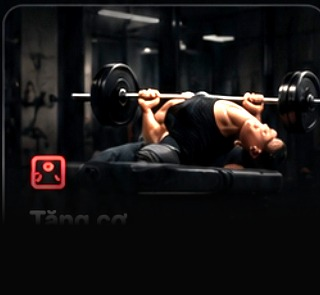
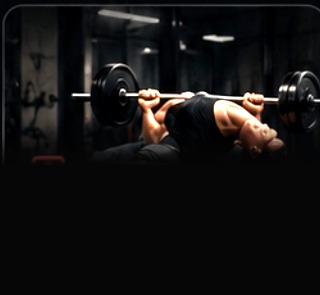
Dich noi dung Fitness sang tieng Anh, xoa het chu Viet in tren anh asset
- 3 anh the giao an: chu Viet in san ("Gym co ban"...) van lo ra duoi chu
  that cua app vi vung xoa bat dau qua muon. Xoa dac tu y=165 (icon o 160,
  chu o 210) thay vi 225.
- Ten bai tap, nhom co, thiet bi, noi tap, muc do, so buoi/tuan gio doi
  theo ngon ngu giao dien. Ten bai tap dung nameEn co san trong file noi
  dung; 17 ten nhom co + 50 loai thiet bi map trong exercise_i18n.dart.
- Bieu do "Tong dau tu" o man Home Quan ly tai san doc CUNG khung thoi
  gian (1H/4H/1D/1W/1M/1Y) voi bieu do o man chi tiet, thay vi bi ghim
  cung 1H - 2 duong cung mot chi so ma ke chuyen khac nhau thi kho hieu.

CON LAI chua dich: 466 dong huong dan tung buoc cua 155 bai tap (truong
`instructions` trong exercises_seed.json) - man chi tiet bai tap van hien
huong dan tieng Viet khi chon tieng Anh.

diff --git a/app/lib/features/fitness/data/exercise_i18n.dart b/app/lib/features/fitness/data/exercise_i18n.dart
@@ -1,0 +1,113 @@
+/// Xem doc ben duoi.
+library;
+
+import '../../../core/i18n/app_language.dart';
+
+/// Dich phan NOI DUNG bai tap sang tieng Anh.
+///
+/// Khac [AppStrings] (chuoi giao dien: nut, tieu de, thong bao), day la du
+/// lieu tinh nam trong `assets/fitness/exercises_seed.json` - von chi co
+/// tieng Viet. Thay vi nhet 155 bai vao tu dien giao dien, o day chi map
+/// nhung gia tri LAP DI LAP LAI: 17 ten nhom co va 50 loai thiet bi. Ten
+/// bai tap khong can map vi file noi dung da co san truong `nameEn`.
+///
+/// CHUA dich: 466 dong huong dan tung buoc (`instructions`) - nguoi dung
+/// chon tieng Anh van thay huong dan tieng Viet o man chi tiet bai tap.
+/// Ten nhom co. Cac gia tri trong file noi dung xuat hien o 2 dang: rieng
+/// le ("Vai truoc") o `secondaryMuscles`, va kem hau to ("Nguc · chinh") o
+/// `primaryMuscle` - [exerciseMuscleLabel] tu tach o dau ' · '.
+const _muscleEn = <String, String>{
+  'Ngực': 'Chest',
+  'Lưng': 'Back',
+  'Lưng trên': 'Upper back',
+  'Lưng giữa': 'Mid back',
+  'Lưng dưới': 'Lower back',
+  'Xô': 'Lats',
+  'Cầu vai': 'Traps',
+  'Vai': 'Shoulders',
+  'Vai trước': 'Front delts',
+  'Vai giữa': 'Side delts',
+  'Vai sau': 'Rear delts',
+  'Tay trước': 'Biceps',
+  'Tay sau': 'Triceps',
+  'Cẳng tay': 'Forearms',
+  'Bụng': 'Abs',
+  'Mông': 'Glutes',
+  'Đùi trước': 'Quads',
+  'Đùi sau': 'Hamstrings',
+  'Bắp chân': 'Calves',
+  'Háng': 'Hip adductors',
+  'Toàn thân': 'Full body',
+  // Hau to cua `primaryMuscle`.
+  'chính': 'primary',
+  'phụ': 'secondary',
+};
+
+const _equipmentEn = <String, String>{
+  'Không thiết bị': 'No equipment',
+  'Tạ đòn': 'Barbell',
+  'Tạ đòn + ghế': 'Barbell + bench',
+  'Tạ đòn + ghế nghiêng': 'Barbell + incline bench',
+  'Tạ đòn + ghế dốc': 'Barbell + decline bench',
+  'Tạ đòn + giá đỡ': 'Barbell + rack',
+  'Tạ đòn + tay cầm chữ T': 'Barbell + T-bar handle',
+  'Tạ đơn': 'Dumbbells',
+  'Tạ đơn + ghế': 'Dumbbells + bench',
+  'Tạ đơn + ghế nghiêng': 'Dumbbells + incline bench',
+  'Tạ đơn + ghế dốc': 'Dumbbells + decline bench',
+  'Tạ ấm': 'Kettlebell',
+  'Tạ cầm tay nặng': 'Heavy carry handles',
+  'Thanh EZ': 'EZ bar',
+  'Thanh EZ + ghế': 'EZ bar + bench',
+  'Thanh đòn cố định': 'Fixed barbell',
+  'Ghế Scott + thanh EZ': 'Preacher bench + EZ bar',
+  'Máy cáp': 'Cable machine',
+  'Máy cáp + dây thừng': 'Cable machine + rope',
+  'Máy cáp + ghế': 'Cable machine + bench',
+  'Máy tập': 'Machine',
+  'Máy đạp đùi': 'Leg press machine',
+  'Máy GHR': 'Glute-ham raise machine',
+  'Máy chạy bộ': 'Treadmill',
+  'Máy elliptical': 'Elliptical',
+  'Máy chèo thuyền': 'Rowing machine',
+  'Máy leo cầu thang': 'Stair climber',
+  'Xe đạp tập': 'Exercise bike',
+  'Xe đạp nằm': 'Recumbent bike',
+  'Dây nhảy': 'Jump rope',
+  'Dây kháng lực': 'Resistance band',
+  'Dây/khăn hỗ trợ': 'Strap or towel',
+  'Gậy hoặc khăn dài': 'Stick or long towel',
+  'Bóng tập': 'Exercise ball',
+  'Bục/ghế': 'Box or bench',
+  'Ghế': 'Bench',
+  'Ghế/bục': 'Bench or box',
+  'Ghế dốc': 'Decline bench',
+  'Ghế ưỡn lưng': 'Back extension bench',
+  'Xà đơn': 'Pull-up bar',
+  'Xà kép': 'Parallel bars',
+  'Khung kéo tạ': 'Trap bar',
+  'Bánh xe tập bụng': 'Ab wheel',
+  'Dụng cụ cuốn cổ tay': 'Wrist roller',
+  'Đĩa tạ': 'Weight plate',
+  'Xe đẩy tạ': 'Sled',
+  'Lốp xe tải': 'Tractor tyre',
+  'Bao cát': 'Sandbag',
+  'Đá tạ': 'Atlas stone',
+  'Giàn yoke': 'Yoke',
+};
+
+/// Nhan nhom co theo ngon ngu giao dien. Gia tri la nhieu phan ngan cach
+/// bang ' · ' (vd "Nguc · chinh") thi dich TUNG PHAN roi ghep lai. Phan nao
+/// chua co trong bang thi giu nguyen tieng Viet - hien sai ngon ngu van hon
+/// la hien o trong.
+String exerciseMuscleLabel(String vi, AppLanguage lang) {
+  if (lang != AppLanguage.en) return vi;
+  return vi
+      .split(' · ')
+      .map((part) => _muscleEn[part.trim()] ?? part)
+      .join(' · ');
+}
+
+/// Nhan thiet bi theo ngon ngu giao dien.
+String exerciseEquipmentLabel(String vi, AppLanguage lang) =>
+    lang == AppLanguage.en ? (_equipmentEn[vi] ?? vi) : vi;

diff --git a/app/lib/features/fitness/presentation/exercise_detail_screen.dart b/app/lib/features/fitness/presentation/exercise_detail_screen.dart
@@ -6,6 +6,7 @@ import '../../../core/providers/app_providers.dart';
 import '../../../core/theme/app_theme.dart';
 import '../data/exercise_model.dart';
 import 'exercise_photo_animator.dart';
+import '../data/exercise_i18n.dart';
 
 /// Chi tiet 1 bai tap - huong dan tung buoc + thanh % tham gia cua tung
 /// nhom co (an neu involvementPercents rong - day la tin hieu CHU DONG
@@ -22,6 +23,7 @@ class ExerciseDetailScreen extends ConsumerWidget {
 
   @override
   Widget build(BuildContext context, WidgetRef ref) {
+    final lang = ref.watch(appLanguageProvider);
     final favoritesAsync = ref.watch(favoriteExerciseIdsProvider);
     final isFavorite =
         favoritesAsync.valueOrNull?.contains(exercise.id) ?? false;
@@ -54,8 +56,11 @@ class ExerciseDetailScreen extends ConsumerWidget {
             const SizedBox(height: 12),
             ExercisePhotoAnimator(assets: exercise.photoAssets),
             const SizedBox(height: 16),
-            Text(exercise.nameVi, style: AppTextStyles.heading(size: 20)),
-            Text(exercise.nameEn, style: AppTextStyles.muted()),
+            Text(
+              exercise.nameFor(lang),
+              style: AppTextStyles.heading(size: 20),
+            ),
+            Text(exercise.altNameFor(lang), style: AppTextStyles.muted()),
             const SizedBox(height: 12),
             Wrap(
               spacing: 8,
@@ -69,7 +74,10 @@ class ExerciseDetailScreen extends ConsumerWidget {
                   label: ref.tr(exercise.muscleGroup.labelKey),
                   color: AppColors.teal,
                 ),
-                _Tag(label: exercise.equipment, color: AppColors.purple),
+                _Tag(
+                  label: exerciseEquipmentLabel(exercise.equipment, lang),
+                  color: AppColors.purple,
+                ),
               ],
             ),
             const SizedBox(height: 20),

diff --git a/app/lib/features/fitness/presentation/programs_list_screen.dart b/app/lib/features/fitness/presentation/programs_list_screen.dart
@@ -147,7 +147,7 @@ class _ProgramsListScreenState extends ConsumerState<ProgramsListScreen> {
   }
 }
 
-class _ProgramCard extends StatelessWidget {
+class _ProgramCard extends ConsumerWidget {
   const _ProgramCard({
     required this.program,
     required this.isActive,
@@ -158,7 +158,7 @@ class _ProgramCard extends StatelessWidget {
   final VoidCallback onTap;
 
   @override
-  Widget build(BuildContext context) {
+  Widget build(BuildContext context, WidgetRef ref) {
     return GestureDetector(
       onTap: onTap,
       child: GlowBox(
@@ -171,7 +171,7 @@ class _ProgramCard extends StatelessWidget {
               children: [
                 Expanded(
                   child: Text(
-                    program.titleVi,
+                    program.titleFor(ref.watch(appLanguageProvider)),
                     style: AppTextStyles.body(weight: FontWeight.w800),
                   ),
                 ),
@@ -203,7 +203,9 @@ class _ProgramCard extends StatelessWidget {
                 _DifficultyBadge(difficulty: program.difficulty),
                 const SizedBox(width: 8),
                 Text(
-                  '${program.equipment} · ${program.sessionsPerWeek} buổi/tuần',
+                  '${program.equipmentLabelKey == null ? program.equipment : ref.tr(program.equipmentLabelKey!)}'
+                  ' · '
+                  '${ref.tr('fitness_sessions_per_week').replaceFirst('{n}', '${program.sessionsPerWeek}')}',
                   style: AppTextStyles.muted(),
                 ),
               ],

diff --git a/app/lib/features/fitness/presentation/program_detail_screen.dart b/app/lib/features/fitness/presentation/program_detail_screen.dart
@@ -68,7 +68,7 @@ class ProgramDetailScreen extends ConsumerWidget {
                 const SizedBox(width: 12),
                 Expanded(
                   child: Text(
-                    program.titleVi,
+                    program.titleFor(ref.watch(appLanguageProvider)),
                     style: AppTextStyles.heading(size: 18),
                     maxLines: 1,
                     overflow: TextOverflow.ellipsis,
@@ -102,7 +102,7 @@ class ProgramDetailScreen extends ConsumerWidget {
               onTap: () => addFitnessProgramToPlanner(
                 ref,
                 programId: program.id,
-                programTitle: program.titleVi,
+                programTitle: program.titleFor(ref.watch(appLanguageProvider)),
                 trainingWeekdays: [
                   for (final d in program.days)
                     if (!d.isRestDay) d.dayOfWeek,
@@ -206,7 +206,9 @@ class _DayCard extends StatelessWidget {
                         Padding(
                           padding: const EdgeInsets.only(bottom: 2),
                           child: Text(
-                            exercisesById[ex.exerciseId]?.nameVi ??
+                            exercisesById[ex.exerciseId]?.nameFor(
+                                  ref.watch(appLanguageProvider),
+                                ) ??
                                 '#${ex.exerciseId}',
                             style: AppTextStyles.muted(),
                           ),

diff --git a/app/lib/features/wealth/presentation/investment_value_chart.dart b/app/lib/features/wealth/presentation/investment_value_chart.dart
@@ -187,13 +187,13 @@ class _InvestmentValueChartState extends ConsumerState<InvestmentValueChart> {
 
   @override
   Widget build(BuildContext context) {
-    // Ban compact o man Home luon xem khung 1H (khong theo lua chon cua man
-    // chi tiet): the o Home be xiu, nhet ca ngay vao do thi moi nhip len
-    // xuong chi con vai pixel - 1 tieng gan nhat vua du cho biet "dang nhu
-    // the nao", con muon xem dai hon thi mo man chi tiet.
-    final range = widget.compact
-        ? InvestmentChartRange.h1
-        : ref.watch(investmentChartRangeProvider);
+    // Ca ban compact o man Home LAN ban day du o man chi tiet deu doc CUNG
+    // 1 khung thoi gian (1H/4H/1D/1W/1M/1Y) - doi o man chi tiet thi the o
+    // Home doi theo. Truoc day ban compact bi ghim cung 1H vi so the o Home
+    // qua be de nhin ra nhip len xuong; nhung nhu vay 2 duong cung mot chi
+    // so lai ke chuyen khac nhau, kho hieu hon han. Bu lai bang cach giu
+    // nguyen viec thua diem manh tay hon o ban compact (xem ben duoi).
+    final range = ref.watch(investmentChartRangeProvider);
     final snapsAsync = ref.watch(investmentSnapshotsProvider(range));
     final liveTotal = ref.watch(totalInvestmentValueVndProvider);
 

diff --git a/app/lib/features/fitness/presentation/exercise_library_screen.dart b/app/lib/features/fitness/presentation/exercise_library_screen.dart
@@ -6,6 +6,7 @@ import '../../../core/providers/app_providers.dart';
 import '../../../core/theme/app_theme.dart';
 import '../data/exercise_model.dart';
 import 'exercise_detail_screen.dart';
+import '../data/exercise_i18n.dart';
 
 /// Thu vien bai tap (Fitness Phase 1) - xem/tim theo nhom co, bam vao xem
 /// chi tiet + danh dau yeu thich. Port tu man "1c" cua FitViet, rut gon cho
@@ -288,11 +289,12 @@ class _ExerciseTile extends ConsumerWidget {
                 crossAxisAlignment: CrossAxisAlignment.start,
                 children: [
                   Text(
-                    exercise.nameVi,
+                    exercise.nameFor(ref.watch(appLanguageProvider)),
                     style: AppTextStyles.body(weight: FontWeight.w800),
                   ),
                   Text(
-                    '${exercise.primaryMuscle} · ${ref.tr(exercise.difficulty.labelKey)}',
+                    '${exerciseMuscleLabel(exercise.primaryMuscle, ref.watch(appLanguageProvider))}'
+                    ' · ${ref.tr(exercise.difficulty.labelKey)}',
                     style: AppTextStyles.muted(),
                   ),
                 ],

diff --git a/app/lib/features/fitness/data/exercise_model.dart b/app/lib/features/fitness/data/exercise_model.dart
@@ -1,3 +1,5 @@
+import '../../../core/i18n/app_language.dart';
+
 /// Nhom co chinh cua 1 bai tap - dung ma on dinh (khong doi theo ngon ngu)
 /// de loc/nhom, khac voi [Exercise.primaryMuscle] la chuoi hien thi tu do.
 /// Danh sach nay khop voi `MuscleGroup` enum cua FitViet (nguon port).
@@ -118,6 +120,15 @@ class Exercise {
 
   final int id;
   final String nameVi;
+
+  /// Ten bai tap theo ngon ngu giao dien dang chon. Ten con lai van hien
+  /// lam dong phu o man chi tiet (hoc vien hoc tieng Anh qua gym nen thay
+  /// ca 2 la co ich), xem exercise_detail_screen.dart.
+  String nameFor(AppLanguage lang) => lang == AppLanguage.en ? nameEn : nameVi;
+
+  /// Ten o dong phu - luon la ten CON LAI so voi [nameFor].
+  String altNameFor(AppLanguage lang) =>
+      lang == AppLanguage.en ? nameVi : nameEn;
   final String nameEn;
   final String primaryMuscle;
   final List<String> secondaryMuscles;

diff --git a/app/lib/features/fitness/presentation/workout_session_screen.dart b/app/lib/features/fitness/presentation/workout_session_screen.dart
@@ -131,22 +131,22 @@ class _WorkoutSessionScreenState extends ConsumerState<WorkoutSessionScreen> {
   }
 }
 
-class _LoggingView extends StatelessWidget {
+class _LoggingView extends ConsumerWidget {
   const _LoggingView({required this.controller, required this.exercise});
   final WorkoutController controller;
   final Exercise exercise;
 
   @override
-  Widget build(BuildContext context) {
+  Widget build(BuildContext context, WidgetRef ref) {
     return Column(
       children: [
         Text(
-          exercise.nameVi,
+          exercise.nameFor(ref.watch(appLanguageProvider)),
           textAlign: TextAlign.center,
           style: AppTextStyles.heading(size: 20),
         ),
         Text(
-          exercise.nameEn,
+          exercise.altNameFor(ref.watch(appLanguageProvider)),
           textAlign: TextAlign.center,
           style: AppTextStyles.muted(),
         ),

diff --git a/app/lib/features/fitness/presentation/workout_preview_screen.dart b/app/lib/features/fitness/presentation/workout_preview_screen.dart
@@ -150,12 +150,12 @@ class _WorkoutPreviewScreenState extends ConsumerState<WorkoutPreviewScreen> {
   }
 }
 
-class _PreviewTile extends StatelessWidget {
+class _PreviewTile extends ConsumerWidget {
   const _PreviewTile({required this.block});
   final WorkoutExerciseBlock block;
 
   @override
-  Widget build(BuildContext context) {
+  Widget build(BuildContext context, WidgetRef ref) {
     final exercise = block.exercise;
     return GlowBox(
       padding: const EdgeInsets.all(12),
@@ -186,7 +186,7 @@ class _PreviewTile extends StatelessWidget {
               crossAxisAlignment: CrossAxisAlignment.start,
               children: [
                 Text(
-                  exercise.nameVi,
+                  exercise.nameFor(ref.watch(appLanguageProvider)),
                   style: AppTextStyles.body(weight: FontWeight.w800),
                 ),
                 Consumer(

diff --git a/app/lib/features/fitness/data/program_model.dart b/app/lib/features/fitness/data/program_model.dart
@@ -112,6 +112,14 @@ class Program {
   /// Khoa chuoi giao dien cho muc do cua giao an nay.
   String get levelLabelKey => difficulty?.labelKey ?? 'fitness_level_all';
 
+  /// Khoa chuoi giao dien cho noi tap. Chi co 2 gia tri trong file noi
+  /// dung; gia tri la khac thi giu nguyen chuoi goc (tra null).
+  String? get equipmentLabelKey => switch (equipment) {
+    'Phòng gym' => 'fitness_place_gym',
+    'Tại nhà' => 'fitness_place_home',
+    _ => null,
+  };
+
   /// Ngay trong tuan hien tai theo lich cua chuong trinh nay -
   /// `DateTime.weekday` da san dung chuan ISO (1-7) nen khong can chuyen doi.
   ProgramDay dayFor(DateTime date) =>

diff --git a/app/lib/core/i18n/app_strings.dart b/app/lib/core/i18n/app_strings.dart
@@ -4299,6 +4299,15 @@ class AppStrings {
       AppLanguage.vi: 'Xem tất cả',
       AppLanguage.en: 'See all',
     },
+    'fitness_place_gym': {AppLanguage.vi: 'Phòng gym', AppLanguage.en: 'Gym'},
+    'fitness_place_home': {
+      AppLanguage.vi: 'Tại nhà',
+      AppLanguage.en: 'At home',
+    },
+    'fitness_sessions_per_week': {
+      AppLanguage.vi: '{n} buổi/tuần',
+      AppLanguage.en: '{n} sessions/week',
+    },
     'fitness_level_beginner': {
       AppLanguage.vi: 'Mới bắt đầu',
       AppLanguage.en: 'Beginner',

diff --git a/app/lib/features/fitness/presentation/workout_finished_screen.dart b/app/lib/features/fitness/presentation/workout_finished_screen.dart
@@ -50,7 +50,7 @@ class _WorkoutFinishedScreenState extends ConsumerState<WorkoutFinishedScreen> {
         final programs = await ref.read(programListProvider.future);
         for (final p in programs) {
           if (p.id == programId) {
-            programTitle = p.titleVi;
+            programTitle = p.titleFor(ref.read(appLanguageProvider));
             break;
           }
         }
